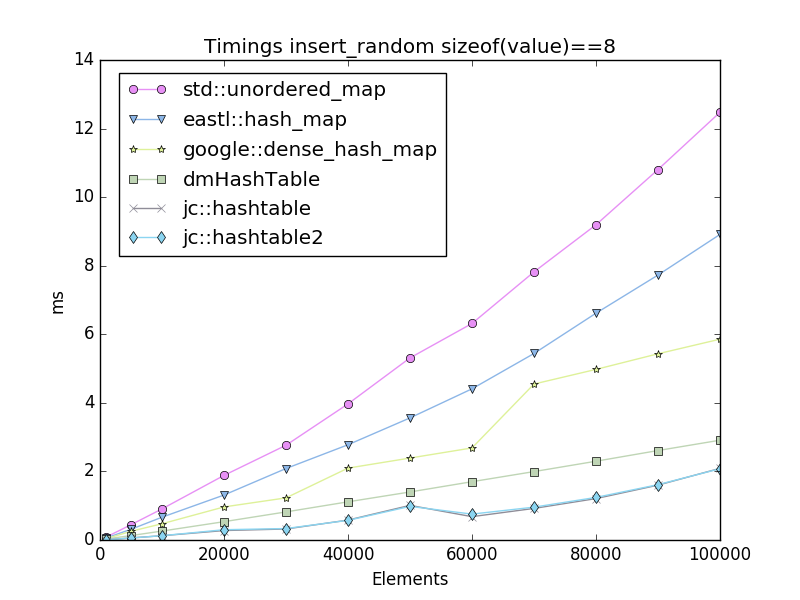
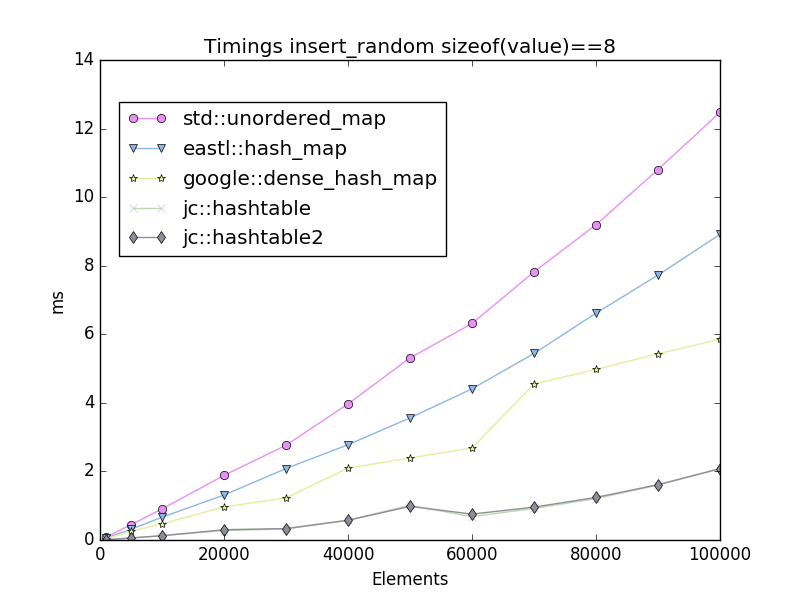
cleanup

diff --git a/benchmarks/markdown.py b/benchmarks/markdown.py
@@ -56,6 +56,8 @@ if __name__ == '__main__':
     tests1 = get_tests(lines1)
     tests2 = get_tests(lines2)
     for test1, test2 in zip(tests1,tests2):
+        if ('dmHashTable' in test1) or ('dmHashTable' in test2):
+            continue
         print '<img src="%s" alt="%s" width="350">' % (get_path_from_test_name(test1), test1)
         print '<img src="%s" alt="%s" width="350">' % (get_path_from_test_name(test2), test2)
         print '<br/>'
@@ -66,6 +68,8 @@ if __name__ == '__main__':
     print "### %s" % log1
     print "<sub>"
     for line in lines1:
+        if 'dmHashTable' in line:
+            continue
         tokens = line.split()
         tokens = map(sub, tokens)
         print " ".join(tokens)
@@ -74,6 +78,8 @@ if __name__ == '__main__':
     print "### %s" % log2
     print "<sub>"
     for line in lines2:
+        if 'dmHashTable' in line:
+            continue
         tokens = line.split()
         tokens = map(sub, tokens)
         print " ".join(tokens)

diff --git a/benchmarks/render.py b/benchmarks/render.py
@@ -156,7 +156,7 @@ def render_matplotlib(test):
                      #color=random_color(),
                      label=name)
         """
-        if "std::map" in name:
+        if name in ("std::map", "dmHashTable"):
             continue
         plt.plot(test['counts'], values, label=name, color=random_color(), marker=markers[i % len(markers)])
         offset += bar_width

diff --git a/benchmarks/benchmarks_ht.md b/benchmarks/benchmarks_ht.md
@@ -36,7 +36,6 @@ Benchmarks run on a: MacBookPro10,2   Intel(R) Core(TM) i7-3520M CPU @ 2.90GHz
 <sub>
 ## <sub>Timings</sub> <sub>insert_sequential</sub> <sub>sizeof(value)==8</sub>
 
-| <sub>counts</sub> | <sub>std::unordered_map</sub> | <sub>eastl::hash_map</sub> | <sub>google::dense_hash_map</sub> | <sub>dmHashTable</sub> | <sub>jc::hashtable</sub> | <sub>jc::hashtable2</sub> |
 |-------:|--------------------|-----------------|------------------------|-------------|---------------|----------------|
 | <sub>1000</sub> | <sub>0.0723</sub> <sub>ms</sub> | <sub>0.0582</sub> <sub>ms</sub> | <sub>0.0257</sub> <sub>ms</sub> | <sub>0.0256</sub> <sub>ms</sub> | <sub>0.0023</sub> <sub>ms</sub> | <sub>0.0033</sub> <sub>ms</sub> |
 | <sub>5000</sub> | <sub>0.3615</sub> <sub>ms</sub> | <sub>0.2742</sub> <sub>ms</sub> | <sub>0.1704</sub> <sub>ms</sub> | <sub>0.1038</sub> <sub>ms</sub> | <sub>0.0119</sub> <sub>ms</sub> | <sub>0.0163</sub> <sub>ms</sub> |
@@ -54,7 +53,6 @@ Benchmarks run on a: MacBookPro10,2   Intel(R) Core(TM) i7-3520M CPU @ 2.90GHz
 
 ## <sub>Timings</sub> <sub>insert_random</sub> <sub>sizeof(value)==8</sub>
 
-| <sub>counts</sub> | <sub>std::unordered_map</sub> | <sub>eastl::hash_map</sub> | <sub>google::dense_hash_map</sub> | <sub>dmHashTable</sub> | <sub>jc::hashtable</sub> | <sub>jc::hashtable2</sub> |
 |-------:|--------------------|-----------------|------------------------|-------------|---------------|----------------|
 | <sub>1000</sub> | <sub>0.0850</sub> <sub>ms</sub> | <sub>0.0610</sub> <sub>ms</sub> | <sub>0.0361</sub> <sub>ms</sub> | <sub>0.0302</sub> <sub>ms</sub> | <sub>0.0059</sub> <sub>ms</sub> | <sub>0.0062</sub> <sub>ms</sub> |
 | <sub>5000</sub> | <sub>0.4455</sub> <sub>ms</sub> | <sub>0.3123</sub> <sub>ms</sub> | <sub>0.2542</sub> <sub>ms</sub> | <sub>0.1291</sub> <sub>ms</sub> | <sub>0.0603</sub> <sub>ms</sub> | <sub>0.0585</sub> <sub>ms</sub> |
@@ -72,7 +70,6 @@ Benchmarks run on a: MacBookPro10,2   Intel(R) Core(TM) i7-3520M CPU @ 2.90GHz
 
 ## <sub>Timings</sub> <sub>get_sequential</sub> <sub>sizeof(value)==8</sub>
 
-| <sub>counts</sub> | <sub>std::unordered_map</sub> | <sub>eastl::hash_map</sub> | <sub>google::dense_hash_map</sub> | <sub>dmHashTable</sub> | <sub>jc::hashtable</sub> | <sub>jc::hashtable2</sub> |
 |-------:|--------------------|-----------------|------------------------|-------------|---------------|----------------|
 | <sub>1000</sub> | <sub>0.0197</sub> <sub>ms</sub> | <sub>0.0115</sub> <sub>ms</sub> | <sub>0.0080</sub> <sub>ms</sub> | <sub>0.0108</sub> <sub>ms</sub> | <sub>0.0012</sub> <sub>ms</sub> | <sub>0.0016</sub> <sub>ms</sub> |
 | <sub>5000</sub> | <sub>0.0926</sub> <sub>ms</sub> | <sub>0.0629</sub> <sub>ms</sub> | <sub>0.0410</sub> <sub>ms</sub> | <sub>0.0433</sub> <sub>ms</sub> | <sub>0.0061</sub> <sub>ms</sub> | <sub>0.0077</sub> <sub>ms</sub> |
@@ -90,7 +87,6 @@ Benchmarks run on a: MacBookPro10,2   Intel(R) Core(TM) i7-3520M CPU @ 2.90GHz
 
 ## <sub>Timings</sub> <sub>get_random</sub> <sub>sizeof(value)==8</sub>
 
-| <sub>counts</sub> | <sub>std::unordered_map</sub> | <sub>eastl::hash_map</sub> | <sub>google::dense_hash_map</sub> | <sub>dmHashTable</sub> | <sub>jc::hashtable</sub> | <sub>jc::hashtable2</sub> |
 |-------:|--------------------|-----------------|------------------------|-------------|---------------|----------------|
 | <sub>1000</sub> | <sub>0.0258</sub> <sub>ms</sub> | <sub>0.0160</sub> <sub>ms</sub> | <sub>0.0122</sub> <sub>ms</sub> | <sub>0.0166</sub> <sub>ms</sub> | <sub>0.0055</sub> <sub>ms</sub> | <sub>0.0056</sub> <sub>ms</sub> |
 | <sub>5000</sub> | <sub>0.1402</sub> <sub>ms</sub> | <sub>0.0876</sub> <sub>ms</sub> | <sub>0.0493</sub> <sub>ms</sub> | <sub>0.0751</sub> <sub>ms</sub> | <sub>0.0418</sub> <sub>ms</sub> | <sub>0.0432</sub> <sub>ms</sub> |
@@ -108,7 +104,6 @@ Benchmarks run on a: MacBookPro10,2   Intel(R) Core(TM) i7-3520M CPU @ 2.90GHz
 
 ## <sub>Timings</sub> <sub>erase_sequential</sub> <sub>sizeof(value)==8</sub>
 
-| <sub>counts</sub> | <sub>std::unordered_map</sub> | <sub>eastl::hash_map</sub> | <sub>google::dense_hash_map</sub> | <sub>dmHashTable</sub> | <sub>jc::hashtable</sub> | <sub>jc::hashtable2</sub> |
 |-------:|--------------------|-----------------|------------------------|-------------|---------------|----------------|
 | <sub>1000</sub> | <sub>0.0946</sub> <sub>ms</sub> | <sub>0.0675</sub> <sub>ms</sub> | <sub>0.0087</sub> <sub>ms</sub> | <sub>0.0135</sub> <sub>ms</sub> | <sub>0.0048</sub> <sub>ms</sub> | <sub>0.0062</sub> <sub>ms</sub> |
 | <sub>5000</sub> | <sub>0.4696</sub> <sub>ms</sub> | <sub>0.3377</sub> <sub>ms</sub> | <sub>0.0432</sub> <sub>ms</sub> | <sub>0.0549</sub> <sub>ms</sub> | <sub>0.0236</sub> <sub>ms</sub> | <sub>0.0307</sub> <sub>ms</sub> |
@@ -126,7 +121,6 @@ Benchmarks run on a: MacBookPro10,2   Intel(R) Core(TM) i7-3520M CPU @ 2.90GHz
 
 ## <sub>Timings</sub> <sub>erase_random</sub> <sub>sizeof(value)==8</sub>
 
-| <sub>counts</sub> | <sub>std::unordered_map</sub> | <sub>eastl::hash_map</sub> | <sub>google::dense_hash_map</sub> | <sub>dmHashTable</sub> | <sub>jc::hashtable</sub> | <sub>jc::hashtable2</sub> |
 |-------:|--------------------|-----------------|------------------------|-------------|---------------|----------------|
 | <sub>1000</sub> | <sub>0.1233</sub> <sub>ms</sub> | <sub>0.0822</sub> <sub>ms</sub> | <sub>0.0130</sub> <sub>ms</sub> | <sub>0.0149</sub> <sub>ms</sub> | <sub>0.0117</sub> <sub>ms</sub> | <sub>0.0137</sub> <sub>ms</sub> |
 | <sub>5000</sub> | <sub>0.6252</sub> <sub>ms</sub> | <sub>0.4517</sub> <sub>ms</sub> | <sub>0.0556</sub> <sub>ms</sub> | <sub>0.0744</sub> <sub>ms</sub> | <sub>0.0742</sub> <sub>ms</sub> | <sub>0.1055</sub> <sub>ms</sub> |
@@ -144,7 +138,6 @@ Benchmarks run on a: MacBookPro10,2   Intel(R) Core(TM) i7-3520M CPU @ 2.90GHz
 
 ## <sub>Timings</sub> <sub>iterator</sub> <sub>sizeof(value)==8</sub>
 
-| <sub>counts</sub> | <sub>std::unordered_map</sub> | <sub>eastl::hash_map</sub> | <sub>google::dense_hash_map</sub> | <sub>dmHashTable</sub> | <sub>jc::hashtable</sub> | <sub>jc::hashtable2</sub> |
 |-------:|--------------------|-----------------|------------------------|-------------|---------------|----------------|
 | <sub>1000</sub> | <sub>0.0022</sub> <sub>ms</sub> | <sub>0.0080</sub> <sub>ms</sub> | <sub>0.0072</sub> <sub>ms</sub> | <sub>0.0052</sub> <sub>ms</sub> | <sub>0.0027</sub> <sub>ms</sub> | <sub>0.0023</sub> <sub>ms</sub> |
 | <sub>5000</sub> | <sub>0.0225</sub> <sub>ms</sub> | <sub>0.0423</sub> <sub>ms</sub> | <sub>0.0554</sub> <sub>ms</sub> | <sub>0.0422</sub> <sub>ms</sub> | <sub>0.0250</sub> <sub>ms</sub> | <sub>0.0279</sub> <sub>ms</sub> |
@@ -162,7 +155,6 @@ Benchmarks run on a: MacBookPro10,2   Intel(R) Core(TM) i7-3520M CPU @ 2.90GHz
 
 ## <sub>Timings</sub> <sub>create_insert_sum</sub> <sub>sizeof(value)==8</sub>
 
-| <sub>counts</sub> | <sub>std::unordered_map</sub> | <sub>eastl::hash_map</sub> | <sub>google::dense_hash_map</sub> | <sub>dmHashTable</sub> | <sub>jc::hashtable</sub> | <sub>jc::hashtable2</sub> |
 |-------:|--------------------|-----------------|------------------------|-------------|---------------|----------------|
 | <sub>1000</sub> | <sub>0.1430</sub> <sub>ms</sub> | <sub>0.1323</sub> <sub>ms</sub> | <sub>0.0198</sub> <sub>ms</sub> | <sub>0.0240</sub> <sub>ms</sub> | <sub>0.0150</sub> <sub>ms</sub> | <sub>0.0228</sub> <sub>ms</sub> |
 | <sub>5000</sub> | <sub>0.8568</sub> <sub>ms</sub> | <sub>0.7102</sub> <sub>ms</sub> | <sub>0.1077</sub> <sub>ms</sub> | <sub>0.1166</sub> <sub>ms</sub> | <sub>0.0656</sub> <sub>ms</sub> | <sub>0.1095</sub> <sub>ms</sub> |
@@ -180,7 +172,6 @@ Benchmarks run on a: MacBookPro10,2   Intel(R) Core(TM) i7-3520M CPU @ 2.90GHz
 
 ## <sub>Timings</sub> <sub>adds_and_removes</sub> <sub>sizeof(value)==8</sub>
 
-| <sub>counts</sub> | <sub>std::unordered_map</sub> | <sub>eastl::hash_map</sub> | <sub>google::dense_hash_map</sub> | <sub>dmHashTable</sub> | <sub>jc::hashtable</sub> | <sub>jc::hashtable2</sub> |
 |-------:|--------------------|-----------------|------------------------|-------------|---------------|----------------|
 | <sub>1000</sub> | <sub>0.9463</sub> <sub>ms</sub> | <sub>0.6998</sub> <sub>ms</sub> | <sub>0.4236</sub> <sub>ms</sub> | <sub>0.4049</sub> <sub>ms</sub> | <sub>0.3439</sub> <sub>ms</sub> | <sub>0.3474</sub> <sub>ms</sub> |
 | <sub>5000</sub> | <sub>4.3219</sub> <sub>ms</sub> | <sub>3.0940</sub> <sub>ms</sub> | <sub>2.1588</sub> <sub>ms</sub> | <sub>1.7971</sub> <sub>ms</sub> | <sub>1.6287</sub> <sub>ms</sub> | <sub>1.6735</sub> <sub>ms</sub> |
@@ -201,7 +192,6 @@ Benchmarks run on a: MacBookPro10,2   Intel(R) Core(TM) i7-3520M CPU @ 2.90GHz
 <sub>
 ## <sub>Timings</sub> <sub>insert_sequential</sub> <sub>sizeof(value)==152</sub>
 
-| <sub>counts</sub> | <sub>std::unordered_map</sub> | <sub>eastl::hash_map</sub> | <sub>google::dense_hash_map</sub> | <sub>dmHashTable</sub> | <sub>jc::hashtable</sub> | <sub>jc::hashtable2</sub> |
 |-------:|--------------------|-----------------|------------------------|-------------|---------------|----------------|
 | <sub>1000</sub> | <sub>0.0810</sub> <sub>ms</sub> | <sub>0.0638</sub> <sub>ms</sub> | <sub>0.0878</sub> <sub>ms</sub> | <sub>0.0307</sub> <sub>ms</sub> | <sub>0.0158</sub> <sub>ms</sub> | <sub>0.0190</sub> <sub>ms</sub> |
 | <sub>5000</sub> | <sub>0.4089</sub> <sub>ms</sub> | <sub>0.3216</sub> <sub>ms</sub> | <sub>0.7457</sub> <sub>ms</sub> | <sub>0.1449</sub> <sub>ms</sub> | <sub>0.0793</sub> <sub>ms</sub> | <sub>0.1085</sub> <sub>ms</sub> |
@@ -219,7 +209,6 @@ Benchmarks run on a: MacBookPro10,2   Intel(R) Core(TM) i7-3520M CPU @ 2.90GHz
 
 ## <sub>Timings</sub> <sub>insert_random</sub> <sub>sizeof(value)==152</sub>
 
-| <sub>counts</sub> | <sub>std::unordered_map</sub> | <sub>eastl::hash_map</sub> | <sub>google::dense_hash_map</sub> | <sub>dmHashTable</sub> | <sub>jc::hashtable</sub> | <sub>jc::hashtable2</sub> |
 |-------:|--------------------|-----------------|------------------------|-------------|---------------|----------------|
 | <sub>1000</sub> | <sub>0.0930</sub> <sub>ms</sub> | <sub>0.0708</sub> <sub>ms</sub> | <sub>0.1020</sub> <sub>ms</sub> | <sub>0.0361</sub> <sub>ms</sub> | <sub>0.0225</sub> <sub>ms</sub> | <sub>0.0281</sub> <sub>ms</sub> |
 | <sub>5000</sub> | <sub>0.5122</sub> <sub>ms</sub> | <sub>0.4078</sub> <sub>ms</sub> | <sub>0.9340</sub> <sub>ms</sub> | <sub>0.1815</sub> <sub>ms</sub> | <sub>0.1770</sub> <sub>ms</sub> | <sub>0.1364</sub> <sub>ms</sub> |
@@ -237,7 +226,6 @@ Benchmarks run on a: MacBookPro10,2   Intel(R) Core(TM) i7-3520M CPU @ 2.90GHz
 
 ## <sub>Timings</sub> <sub>get_sequential</sub> <sub>sizeof(value)==152</sub>
 
-| <sub>counts</sub> | <sub>std::unordered_map</sub> | <sub>eastl::hash_map</sub> | <sub>google::dense_hash_map</sub> | <sub>dmHashTable</sub> | <sub>jc::hashtable</sub> | <sub>jc::hashtable2</sub> |
 |-------:|--------------------|-----------------|------------------------|-------------|---------------|----------------|
 | <sub>1000</sub> | <sub>0.0179</sub> <sub>ms</sub> | <sub>0.0112</sub> <sub>ms</sub> | <sub>0.0076</sub> <sub>ms</sub> | <sub>0.0097</sub> <sub>ms</sub> | <sub>0.0018</sub> <sub>ms</sub> | <sub>0.0033</sub> <sub>ms</sub> |
 | <sub>5000</sub> | <sub>0.0900</sub> <sub>ms</sub> | <sub>0.0562</sub> <sub>ms</sub> | <sub>0.0470</sub> <sub>ms</sub> | <sub>0.0465</sub> <sub>ms</sub> | <sub>0.0137</sub> <sub>ms</sub> | <sub>0.0151</sub> <sub>ms</sub> |
@@ -255,7 +243,6 @@ Benchmarks run on a: MacBookPro10,2   Intel(R) Core(TM) i7-3520M CPU @ 2.90GHz
 
 ## <sub>Timings</sub> <sub>get_random</sub> <sub>sizeof(value)==152</sub>
 
-| <sub>counts</sub> | <sub>std::unordered_map</sub> | <sub>eastl::hash_map</sub> | <sub>google::dense_hash_map</sub> | <sub>dmHashTable</sub> | <sub>jc::hashtable</sub> | <sub>jc::hashtable2</sub> |
 |-------:|--------------------|-----------------|------------------------|-------------|---------------|----------------|
 | <sub>1000</sub> | <sub>0.0271</sub> <sub>ms</sub> | <sub>0.0166</sub> <sub>ms</sub> | <sub>0.0124</sub> <sub>ms</sub> | <sub>0.0149</sub> <sub>ms</sub> | <sub>0.0068</sub> <sub>ms</sub> | <sub>0.0074</sub> <sub>ms</sub> |
 | <sub>5000</sub> | <sub>0.1652</sub> <sub>ms</sub> | <sub>0.1227</sub> <sub>ms</sub> | <sub>0.0635</sub> <sub>ms</sub> | <sub>0.0886</sub> <sub>ms</sub> | <sub>0.0591</sub> <sub>ms</sub> | <sub>0.0611</sub> <sub>ms</sub> |
@@ -273,7 +260,6 @@ Benchmarks run on a: MacBookPro10,2   Intel(R) Core(TM) i7-3520M CPU @ 2.90GHz
 
 ## <sub>Timings</sub> <sub>erase_sequential</sub> <sub>sizeof(value)==152</sub>
 
-| <sub>counts</sub> | <sub>std::unordered_map</sub> | <sub>eastl::hash_map</sub> | <sub>google::dense_hash_map</sub> | <sub>dmHashTable</sub> | <sub>jc::hashtable</sub> | <sub>jc::hashtable2</sub> |
 |-------:|--------------------|-----------------|------------------------|-------------|---------------|----------------|
 | <sub>1000</sub> | <sub>0.1172</sub> <sub>ms</sub> | <sub>0.0842</sub> <sub>ms</sub> | <sub>0.0087</sub> <sub>ms</sub> | <sub>0.0109</sub> <sub>ms</sub> | <sub>0.0054</sub> <sub>ms</sub> | <sub>0.0096</sub> <sub>ms</sub> |
 | <sub>5000</sub> | <sub>0.4724</sub> <sub>ms</sub> | <sub>0.3407</sub> <sub>ms</sub> | <sub>0.0434</sub> <sub>ms</sub> | <sub>0.0549</sub> <sub>ms</sub> | <sub>0.0317</sub> <sub>ms</sub> | <sub>0.0447</sub> <sub>ms</sub> |
@@ -291,7 +277,6 @@ Benchmarks run on a: MacBookPro10,2   Intel(R) Core(TM) i7-3520M CPU @ 2.90GHz
 
 ## <sub>Timings</sub> <sub>erase_random</sub> <sub>sizeof(value)==152</sub>
 
-| <sub>counts</sub> | <sub>std::unordered_map</sub> | <sub>eastl::hash_map</sub> | <sub>google::dense_hash_map</sub> | <sub>dmHashTable</sub> | <sub>jc::hashtable</sub> | <sub>jc::hashtable2</sub> |
 |-------:|--------------------|-----------------|------------------------|-------------|---------------|----------------|
 | <sub>1000</sub> | <sub>0.1536</sub> <sub>ms</sub> | <sub>0.1014</sub> <sub>ms</sub> | <sub>0.0135</sub> <sub>ms</sub> | <sub>0.0140</sub> <sub>ms</sub> | <sub>0.0157</sub> <sub>ms</sub> | <sub>0.0155</sub> <sub>ms</sub> |
 | <sub>5000</sub> | <sub>0.6778</sub> <sub>ms</sub> | <sub>0.4410</sub> <sub>ms</sub> | <sub>0.0777</sub> <sub>ms</sub> | <sub>0.0801</sub> <sub>ms</sub> | <sub>0.1162</sub> <sub>ms</sub> | <sub>0.0897</sub> <sub>ms</sub> |
@@ -309,7 +294,6 @@ Benchmarks run on a: MacBookPro10,2   Intel(R) Core(TM) i7-3520M CPU @ 2.90GHz
 
 ## <sub>Timings</sub> <sub>iterator</sub> <sub>sizeof(value)==152</sub>
 
-| <sub>counts</sub> | <sub>std::unordered_map</sub> | <sub>eastl::hash_map</sub> | <sub>google::dense_hash_map</sub> | <sub>dmHashTable</sub> | <sub>jc::hashtable</sub> | <sub>jc::hashtable2</sub> |
 |-------:|--------------------|-----------------|------------------------|-------------|---------------|----------------|
 | <sub>1000</sub> | <sub>0.0042</sub> <sub>ms</sub> | <sub>0.0077</sub> <sub>ms</sub> | <sub>0.0088</sub> <sub>ms</sub> | <sub>0.0067</sub> <sub>ms</sub> | <sub>0.0041</sub> <sub>ms</sub> | <sub>0.0035</sub> <sub>ms</sub> |
 | <sub>5000</sub> | <sub>0.0428</sub> <sub>ms</sub> | <sub>0.0491</sub> <sub>ms</sub> | <sub>0.0684</sub> <sub>ms</sub> | <sub>0.0469</sub> <sub>ms</sub> | <sub>0.0374</sub> <sub>ms</sub> | <sub>0.0382</sub> <sub>ms</sub> |
@@ -327,7 +311,6 @@ Benchmarks run on a: MacBookPro10,2   Intel(R) Core(TM) i7-3520M CPU @ 2.90GHz
 
 ## <sub>Timings</sub> <sub>create_insert_sum</sub> <sub>sizeof(value)==152</sub>
 
-| <sub>counts</sub> | <sub>std::unordered_map</sub> | <sub>eastl::hash_map</sub> | <sub>google::dense_hash_map</sub> | <sub>dmHashTable</sub> | <sub>jc::hashtable</sub> | <sub>jc::hashtable2</sub> |
 |-------:|--------------------|-----------------|------------------------|-------------|---------------|----------------|
 | <sub>1000</sub> | <sub>0.1694</sub> <sub>ms</sub> | <sub>0.1588</sub> <sub>ms</sub> | <sub>0.0544</sub> <sub>ms</sub> | <sub>0.0318</sub> <sub>ms</sub> | <sub>0.1213</sub> <sub>ms</sub> | <sub>0.0824</sub> <sub>ms</sub> |
 | <sub>5000</sub> | <sub>0.7904</sub> <sub>ms</sub> | <sub>0.7249</sub> <sub>ms</sub> | <sub>0.3590</sub> <sub>ms</sub> | <sub>0.1597</sub> <sub>ms</sub> | <sub>0.5369</sub> <sub>ms</sub> | <sub>0.4208</sub> <sub>ms</sub> |
@@ -345,7 +328,6 @@ Benchmarks run on a: MacBookPro10,2   Intel(R) Core(TM) i7-3520M CPU @ 2.90GHz
 
 ## <sub>Timings</sub> <sub>adds_and_removes</sub> <sub>sizeof(value)==152</sub>
 
-| <sub>counts</sub> | <sub>std::unordered_map</sub> | <sub>eastl::hash_map</sub> | <sub>google::dense_hash_map</sub> | <sub>dmHashTable</sub> | <sub>jc::hashtable</sub> | <sub>jc::hashtable2</sub> |
 |-------:|--------------------|-----------------|------------------------|-------------|---------------|----------------|
 | <sub>1000</sub> | <sub>1.0369</sub> <sub>ms</sub> | <sub>0.7884</sub> <sub>ms</sub> | <sub>0.5574</sub> <sub>ms</sub> | <sub>0.5173</sub> <sub>ms</sub> | <sub>0.4666</sub> <sub>ms</sub> | <sub>0.5207</sub> <sub>ms</sub> |
 | <sub>5000</sub> | <sub>5.0466</sub> <sub>ms</sub> | <sub>3.7531</sub> <sub>ms</sub> | <sub>3.6713</sub> <sub>ms</sub> | <sub>2.3867</sub> <sub>ms</sub> | <sub>2.3970</sub> <sub>ms</sub> | <sub>2.3553</sub> <sub>ms</sub> |
